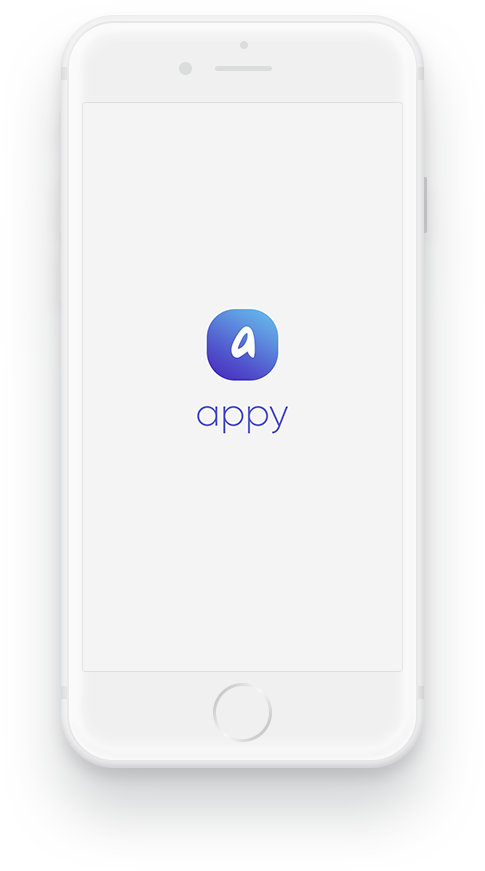
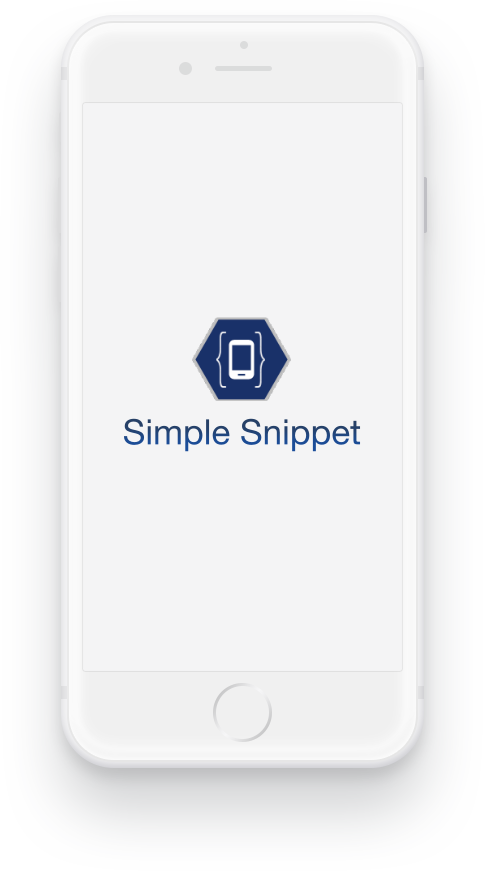
Adding Color changees

Changed region(s): [[0.2474, 0.341, 0.7423, 0.527]]

diff --git a/style.css b/style.css
@@ -104,6 +104,7 @@ body {
     font-size: 16px;
     line-height: 32px;
     color: #8790af;
+
 }
 
 
@@ -119,11 +120,12 @@ input:-webkit-autofill:focus {
 
 .bttn-white {
     position: relative;
-    background: rgb(72, 44, 191);
-    background: -webkit-linear-gradient(45deg, rgba(72, 44, 191, 1) 0%, rgba(106, 198, 240, 1) 100%);
-    background: -o-linear-gradient(45deg, rgba(72, 44, 191, 1) 0%, rgba(106, 198, 240, 1) 100%);
-    background: linear-gradient(45deg, rgba(72, 44, 191, 1) 0%, rgba(106, 198, 240, 1) 100%);
-    filter: progid:DXImageTransform.Microsoft.gradient( startColorstr='#482cbf', endColorstr='#6ac6f0', GradientType=1);
+    /* Permalink - use to edit and share this gradient: https://colorzilla.com/gradient-editor/#2c539e+0,2c539e+100;Blue+3D+%232 */
+  background: #2c539e; /* Old browsers */
+  background: -moz-linear-gradient(top,  #2c539e 0%, #2c539e 100%); /* FF3.6-15 */
+  background: -webkit-linear-gradient(top,  #2c539e 0%,#2c539e 100%); /* Chrome10-25,Safari5.1-6 */
+  background: linear-gradient(to bottom,  #2c539e 0%,#2c539e 100%); /* W3C, IE10+, FF16+, Chrome26+, Opera12+, Safari7+ */
+  filter: progid:DXImageTransform.Microsoft.gradient( startColorstr='#2c539e', endColorstr='#2c539e',GradientType=0 ); /* IE6-9 */
     overflow: hidden;
     z-index: 1;
     margin-right: 10px;
@@ -189,16 +191,12 @@ input:-webkit-autofill:focus {
 
 .bttn-default {
     padding: 12px 40px;
-    /* Permalink - use to edit and share this gradient: http://colorzilla.com/gradient-editor/#482cbf+0,6ac6f0+100 */
-    background: rgb(29, 0, 150);
-    /* Old browsers */
-    /* FF3.6-15 */
-    background: -webkit-linear-gradient(45deg, rgba(29, 0, 150, 1) 0%, rgba(106, 198, 240, 1) 100%);
-    /* Chrome10-25,Safari5.1-6 */
-    background: -o-linear-gradient(45deg, rgba(72, 44, 191, 1) 0%, rgba(106, 198, 240, 1) 100%);
-    background: linear-gradient(45deg, rgba(72, 44, 191, 1) 0%, rgba(106, 198, 240, 1) 100%);
-    /* W3C, IE10+, FF16+, Chrome26+, Opera12+, Safari7+ */
-    filter: progid:DXImageTransform.Microsoft.gradient( startColorstr='#482cbf', endColorstr='#6ac6f0', GradientType=1);
+    /* Permalink - use to edit and share this gradient: https://colorzilla.com/gradient-editor/#2c539e+0,2c539e+100;Blue+3D+%232 */
+  background: #2c539e; /* Old browsers */
+  background: -moz-linear-gradient(top,  #2c539e 0%, #2c539e 100%); /* FF3.6-15 */
+  background: -webkit-linear-gradient(top,  #2c539e 0%,#2c539e 100%); /* Chrome10-25,Safari5.1-6 */
+  background: linear-gradient(to bottom,  #2c539e 0%,#2c539e 100%); /* W3C, IE10+, FF16+, Chrome26+, Opera12+, Safari7+ */
+  filter: progid:DXImageTransform.Microsoft.gradient( startColorstr='#2c539e', endColorstr='#2c539e',GradientType=0 ); /* IE6-9 */
     color: #ffffff;
     -webkit-box-shadow: 0 0 0 0 rgba(0, 0, 0, 0.1);
     box-shadow: 0 0 0 0 rgba(0, 0, 0, 0.1);
@@ -249,17 +247,14 @@ input:-webkit-autofill:focus {
     top: 0;
     width: 100%;
     height: 100%;
-    /* Permalink - use to edit and share this gradient: http://colorzilla.com/gradient-editor/#482cbf+0,6ac6f0+100 */
-    background: rgb(72, 44, 191);
-    /* Old browsers */
-    /* FF3.6-15 */
-    background: -webkit-linear-gradient(45deg, rgba(72, 44, 191, 1) 0%, rgba(106, 198, 240, 1) 100%);
-    /* Chrome10-25,Safari5.1-6 */
-    background: -o-linear-gradient(45deg, rgba(72, 44, 191, 1) 0%, rgba(106, 198, 240, 1) 100%);
-    background: linear-gradient(45deg, rgba(72, 44, 191, 1) 0%, rgba(106, 198, 240, 1) 100%);
-    /* W3C, IE10+, FF16+, Chrome26+, Opera12+, Safari7+ */
-    filter: progid:DXImageTransform.Microsoft.gradient( startColorstr='#482cbf', endColorstr='#6ac6f0', GradientType=1);
-    opacity: 0.8;
+    /* Permalink - use to edit and share this gradient: https://colorzilla.com/gradient-editor/#2c539e+0,2c539e+100;Blue+3D+%232 */
+  background: #2c539e; /* Old browsers */
+  background: -moz-linear-gradient(top,  #2c539e 0%, #2c539e 100%); /* FF3.6-15 */
+  background: -webkit-linear-gradient(top,  #2c539e 0%,#2c539e 100%); /* Chrome10-25,Safari5.1-6 */
+  background: linear-gradient(to bottom,  #2c539e 0%,#2c539e 100%); /* W3C, IE10+, FF16+, Chrome26+, Opera12+, Safari7+ */
+  filter: progid:DXImageTransform.Microsoft.gradient( startColorstr='#2c539e', endColorstr='#2c539e',GradientType=0 ); /* IE6-9 */
+
+    opacity: 0.6;
     /* IE6-9 fallback on horizontal gradient */
     z-index: -2;
 }
@@ -283,7 +278,8 @@ input:-webkit-autofill:focus {
 }
 
 .blue-color {
-    color: #1a78a9;
+    /* color: #1a78a9; */
+    color: #2f55a4;
 }
 
 .white-color {
@@ -299,7 +295,7 @@ input:-webkit-autofill:focus {
 .mainmenu-area {
     position: absolute;
     left: 0;
-    top: 0;
+    top: 10;
     width: 100%;
     z-index: 9999;
     padding: 20px 140px 15px 0;
@@ -316,11 +312,12 @@ input:-webkit-autofill:focus {
     top: 0;
     width: 100%;
     height: 100%;
-    background: rgb(72, 44, 191);
-    background: -webkit-linear-gradient(45deg, rgba(72, 44, 191, 1) 0%, rgba(106, 198, 240, 1) 100%);
-    background: -o-linear-gradient(45deg, rgba(72, 44, 191, 1) 0%, rgba(106, 198, 240, 1) 100%);
-    background: linear-gradient(45deg, rgba(72, 44, 191, 1) 0%, rgba(106, 198, 240, 1) 100%);
-    filter: progid:DXImageTransform.Microsoft.gradient( startColorstr='#482cbf', endColorstr='#6ac6f0', GradientType=1);
+    /* Permalink - use to edit and share this gradient: https://colorzilla.com/gradient-editor/#2c539e+0,2c539e+100;Blue+3D+%232 */
+  background: #2c539e; /* Old browsers */
+  background: -moz-linear-gradient(top,  #2c539e 0%, #2c539e 100%); /* FF3.6-15 */
+  background: -webkit-linear-gradient(top,  #2c539e 0%,#2c539e 100%); /* Chrome10-25,Safari5.1-6 */
+  background: linear-gradient(to bottom,  #2c539e 0%,#2c539e 100%); /* W3C, IE10+, FF16+, Chrome26+, Opera12+, Safari7+ */
+  filter: progid:DXImageTransform.Microsoft.gradient( startColorstr='#2c539e', endColorstr='#2c539e',GradientType=0 ); /* IE6-9 */
     z-index: -1;
     opacity: 0;
     -webkit-transition: 0.3s;
@@ -340,7 +337,7 @@ input:-webkit-autofill:focus {
 .mainmenu-area .right-button {
     position: absolute;
     right: 15px;
-    top: 12px;
+    top: 16px;
 }
 
 .mainmenu-area .right-button a {
@@ -394,6 +391,7 @@ input:-webkit-autofill:focus {
 
 .mainmenu-area .navbar-brand img {
     height: 40px;
+    width: 230px;
 }
 
 /*-- 6. Page-Title --*/
@@ -486,7 +484,7 @@ input:-webkit-autofill:focus {
 
 .feature-area {
     color: #ffffff;
-    background-color: #5e88fc;
+    background-color: #2f55a4;
     background-image: url('images/feature-bg.png');
     background-position: bottom -120px center;
     background-repeat: no-repeat;
@@ -520,16 +518,12 @@ input:-webkit-autofill:focus {
     text-align: center;
     font-size: 20px;
     line-height: 72px;
-    /* Permalink - use to edit and share this gradient: http://colorzilla.com/gradient-editor/#482cbf+0,6ac6f0+100 */
-    background: rgb(72, 44, 191);
-    /* Old browsers */
-    /* FF3.6-15 */
-    background: -webkit-linear-gradient(45deg, rgba(72, 44, 191, 1) 0%, rgba(106, 198, 240, 1) 100%);
-    /* Chrome10-25,Safari5.1-6 */
-    background: -o-linear-gradient(45deg, rgba(72, 44, 191, 1) 0%, rgba(106, 198, 240, 1) 100%);
-    background: linear-gradient(45deg, rgba(72, 44, 191, 1) 0%, rgba(106, 198, 240, 1) 100%);
-    /* W3C, IE10+, FF16+, Chrome26+, Opera12+, Safari7+ */
-    filter: progid:DXImageTransform.Microsoft.gradient( startColorstr='#482cbf', endColorstr='#6ac6f0', GradientType=1);
+    /* Permalink - use to edit and share this gradient: https://colorzilla.com/gradient-editor/#2c539e+0,2c539e+100;Blue+3D+%232 */
+  background: #2c539e; /* Old browsers */
+  background: -moz-linear-gradient(top,  #2c539e 0%, #2c539e 100%); /* FF3.6-15 */
+  background: -webkit-linear-gradient(top,  #2c539e 0%,#2c539e 100%); /* Chrome10-25,Safari5.1-6 */
+  background: linear-gradient(to bottom,  #2c539e 0%,#2c539e 100%); /* W3C, IE10+, FF16+, Chrome26+, Opera12+, Safari7+ */
+  filter: progid:DXImageTransform.Microsoft.gradient( startColorstr='#2c539e', endColorstr='#2c539e',GradientType=0 ); /* IE6-9 */
     overflow: hidden;
     z-index: 1;
     color: #5e88fc;
@@ -641,16 +635,12 @@ input:-webkit-autofill:focus {
 /*-- 13. Gallery-Area --*/
 
 .gallery-area {
-    /* Permalink - use to edit and share this gradient: http://colorzilla.com/gradient-editor/#482cbf+0,6ac6f0+100 */
-    background: rgb(72, 44, 191);
-    /* Old browsers */
-    /* FF3.6-15 */
-    background: -webkit-linear-gradient(45deg, rgba(72, 44, 191, 1) 0%, rgba(106, 198, 240, 1) 100%);
-    /* Chrome10-25,Safari5.1-6 */
-    background: -o-linear-gradient(45deg, rgba(72, 44, 191, 1) 0%, rgba(106, 198, 240, 1) 100%);
-    background: linear-gradient(45deg, rgba(72, 44, 191, 1) 0%, rgba(106, 198, 240, 1) 100%);
-    /* W3C, IE10+, FF16+, Chrome26+, Opera12+, Safari7+ */
-    filter: progid:DXImageTransform.Microsoft.gradient( startColorstr='#482cbf', endColorstr='#6ac6f0', GradientType=1);
+  /* Permalink - use to edit and share this gradient: https://colorzilla.com/gradient-editor/#2c539e+0,2c539e+100;Blue+3D+%232 */
+background: #2c539e; /* Old browsers */
+background: -moz-linear-gradient(top,  #2c539e 0%, #2c539e 100%); /* FF3.6-15 */
+background: -webkit-linear-gradient(top,  #2c539e 0%,#2c539e 100%); /* Chrome10-25,Safari5.1-6 */
+background: linear-gradient(to bottom,  #2c539e 0%,#2c539e 100%); /* W3C, IE10+, FF16+, Chrome26+, Opera12+, Safari7+ */
+filter: progid:DXImageTransform.Microsoft.gradient( startColorstr='#2c539e', endColorstr='#2c539e',GradientType=0 ); /* IE6-9 */
     /* IE6-9 fallback on horizontal gradient */
     color: #ffffff;
 }
@@ -752,16 +742,12 @@ input:-webkit-autofill:focus {
     background-color: #f2f3fc;
     padding: 40px;
     color: #768ede;
-    /* Permalink - use to edit and share this gradient: http://colorzilla.com/gradient-editor/#482cbf+0,6ac6f0+100 */
-    background: rgb(72, 44, 191);
-    /* Old browsers */
-    /* FF3.6-15 */
-    background: -webkit-linear-gradient(45deg, rgba(72, 44, 191, 1) 0%, rgba(106, 198, 240, 1) 100%);
-    /* Chrome10-25,Safari5.1-6 */
-    background: -o-linear-gradient(45deg, rgba(72, 44, 191, 1) 0%, rgba(106, 198, 240, 1) 100%);
-    background: linear-gradient(45deg, rgba(72, 44, 191, 1) 0%, rgba(106, 198, 240, 1) 100%);
-    /* W3C, IE10+, FF16+, Chrome26+, Opera12+, Safari7+ */
-    filter: progid:DXImageTransform.Microsoft.gradient( startColorstr='#482cbf', endColorstr='#6ac6f0', GradientType=1);
+    /* Permalink - use to edit and share this gradient: https://colorzilla.com/gradient-editor/#2c539e+0,2c539e+100;Blue+3D+%232 */
+  background: #2c539e; /* Old browsers */
+  background: -moz-linear-gradient(top,  #2c539e 0%, #2c539e 100%); /* FF3.6-15 */
+  background: -webkit-linear-gradient(top,  #2c539e 0%,#2c539e 100%); /* Chrome10-25,Safari5.1-6 */
+  background: linear-gradient(to bottom,  #2c539e 0%,#2c539e 100%); /* W3C, IE10+, FF16+, Chrome26+, Opera12+, Safari7+ */
+  filter: progid:DXImageTransform.Microsoft.gradient( startColorstr='#2c539e', endColorstr='#2c539e',GradientType=0 ); /* IE6-9 */
     position: relative;
     overflow: hidden;
     z-index: 2;
@@ -947,16 +933,12 @@ input:-webkit-autofill:focus {
     line-height: 75px;
     color: #ffffff;
     font-size: 20px;
-    /* Permalink - use to edit and share this gradient: http://colorzilla.com/gradient-editor/#482cbf+0,6ac6f0+100 */
-    background: rgb(72, 44, 191);
-    /* Old browsers */
-    /* FF3.6-15 */
-    background: -webkit-linear-gradient(45deg, rgba(72, 44, 191, 1) 0%, rgba(106, 198, 240, 1) 100%);
-    /* Chrome10-25,Safari5.1-6 */
-    background: -o-linear-gradient(45deg, rgba(72, 44, 191, 1) 0%, rgba(106, 198, 240, 1) 100%);
-    background: linear-gradient(45deg, rgba(72, 44, 191, 1) 0%, rgba(106, 198, 240, 1) 100%);
-    /* W3C, IE10+, FF16+, Chrome26+, Opera12+, Safari7+ */
-    filter: progid:DXImageTransform.Microsoft.gradient( startColorstr='#482cbf', endColorstr='#6ac6f0', GradientType=1);
+    /* Permalink - use to edit and share this gradient: https://colorzilla.com/gradient-editor/#2c539e+0,2c539e+100;Blue+3D+%232 */
+  background: #2c539e; /* Old browsers */
+  background: -moz-linear-gradient(top,  #2c539e 0%, #2c539e 100%); /* FF3.6-15 */
+  background: -webkit-linear-gradient(top,  #2c539e 0%,#2c539e 100%); /* Chrome10-25,Safari5.1-6 */
+  background: linear-gradient(to bottom,  #2c539e 0%,#2c539e 100%); /* W3C, IE10+, FF16+, Chrome26+, Opera12+, Safari7+ */
+  filter: progid:DXImageTransform.Microsoft.gradient( startColorstr='#2c539e', endColorstr='#2c539e',GradientType=0 ); /* IE6-9 */
     border-radius: 100%;
     position: relative;
     z-index: 1;

diff --git a/index.html b/index.html
@@ -95,11 +95,11 @@
                     <div class="page-title text-center">
                         <img src="images/about-logo.png" alt="About Logo">
                         <div class="space-20"></div>
-                        <h5 class="title">About Appy</h5>
+                        <h5 class="title">About Simple Snippet</h5>
                         <div class="space-30"></div>
-                        <h3 class="blue-color">A beautiful app for consectetur adipisicing elit, sed do eiusmod tempor incididunt ut mollit anim id est laborum. Sedut perspiciatis unde omnis. </h3>
+                        <h3 class="blue-color">A beautiful app created from your inspiration.  Get your app created the way you imagined. </h3>
                         <div class="space-20"></div>
-                        <p>Lorem ipsum dolor sit amet, consectetur adipiing elit, sed do eiusmod tempor incididunt ut labore et laborused sed do eiusmod tempor incididunt ut labore et laborused.</p>
+                        <p></p>
                     </div>
                 </div>
             </div>
@@ -114,10 +114,10 @@
                     <div class="page-title section-padding">
                         <h5 class="title wow fadeInUp" data-wow-delay="0.2s">Our Progress</h5>
                         <div class="space-10"></div>
-                        <h3 class="dark-color wow fadeInUp" data-wow-delay="0.4s">Grat Application Ever</h3>
+                        <h3 class="dark-color wow fadeInUp" data-wow-delay="0.4s">Great Applications Being Created</h3>
                         <div class="space-20"></div>
                         <div class="desc wow fadeInUp" data-wow-delay="0.6s">
-                            <p>Lorem ipsum dolor sit amet, consectetur adipiing elit, sed do eiusmod tempor incididunt ut labore et laborused sed do eiusmod tempor incididunt ut labore et laborused.</p>
+                            <p>Learn about the steps we take to create a wonderful application.  From design, development, quality assurance, user acceptance testing, deployment, and maintence, we'll walk you through all the steps we take to create your application</p>
                         </div>
                         <div class="space-50"></div>
                         <a href="#" class="bttn-default wow fadeInUp" data-wow-delay="0.8s">Learn More</a>
@@ -147,12 +147,12 @@
                 <div class="col-xs-12 col-md-5 col-md-offset-1">
                     <div class="space-60 hidden visible-xs"></div>
                     <div class="page-title">
-                        <h5 class="title wow fadeInUp" data-wow-delay="0.2s">VIDEO FEATURES</h5>
+                        <h5 class="title wow fadeInUp" data-wow-delay="0.2s">NEW FEATURES</h5>
                         <div class="space-10"></div>
-                        <h3 class="dark-color wow fadeInUp" data-wow-delay="0.4s">Grat Application Ever</h3>
+                        <h3 class="dark-color wow fadeInUp" data-wow-delay="0.4s">Maintain And Market The Right Way</h3>
                         <div class="space-20"></div>
                         <div class="desc wow fadeInUp" data-wow-delay="0.6s">
-                            <p>Lorem ipsum dolor sit amet, consectetur adipiing elit, sed do eiusmod tempor incididunt ut labore et laborused sed do eiusmod tempor incididunt ut labore et laborused.</p>
+                            <p>Let us help you with the tools to make your app successful from analytics,a/b testing expirements, to new feature sets for an application built with us or one you would like us to support.</p>
                         </div>
                         <div class="space-50"></div>
                         <a href="#" class="bttn-default wow fadeInUp" data-wow-delay="0.8s">Learn More</a>
@@ -170,7 +170,7 @@
                     <div class="page-title text-center">
                         <h5 class="title">Features</h5>
                         <div class="space-10"></div>
-                        <h3>Pwoerful Features As Always</h3>
+                        <h3>Powerful Features As Always</h3>
                         <div class="space-60"></div>
                     </div>
                 </div>
